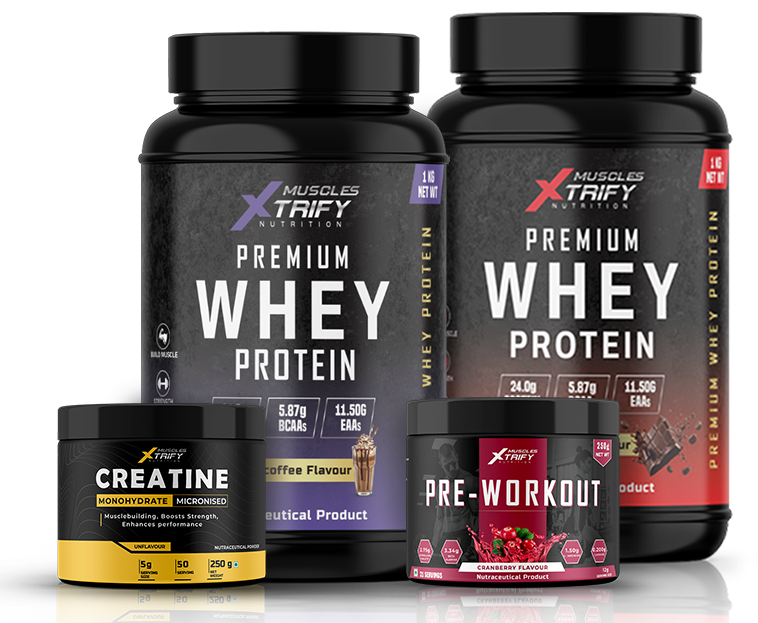
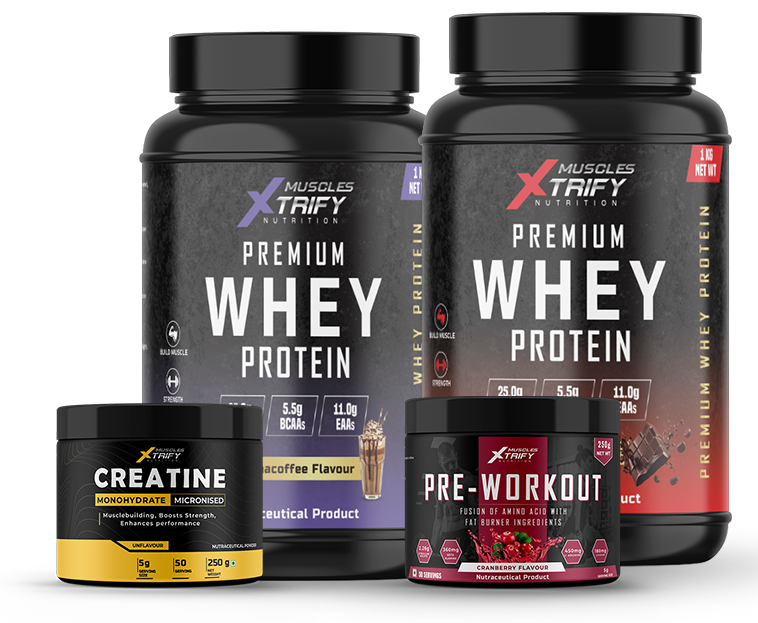
design change

Changed region(s): [[0.0303, 0.061, 1.0, 1.0], [0.2427, 0.3355, 0.2731, 0.366]]

diff --git a/src/pages/products/whey-protein-powder.jsx b/src/pages/products/whey-protein-powder.jsx
@@ -324,7 +324,7 @@ function PureGoWheyProtein() {
                           MusclesXtrify Nutrition Whey Protein is a Mixture of
                           Whey Isolate, Whey Concentrate, Skimmed Milk powder,
                           Soy protein isolate and plant protein. It is packed
-                          with 24g of 100% High Quality whey protein per serving
+                          with 25g of 100% High Quality whey protein per serving
                           (35g scoop). The benchmark and premium source of
                           protein powders. Each serving delivers an excellent
                           course of naturally occurring essential amino acids
